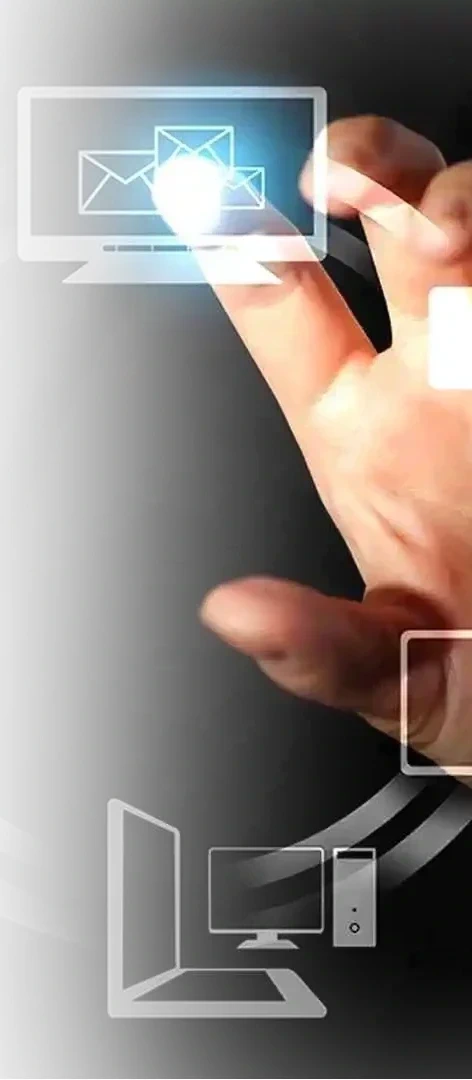
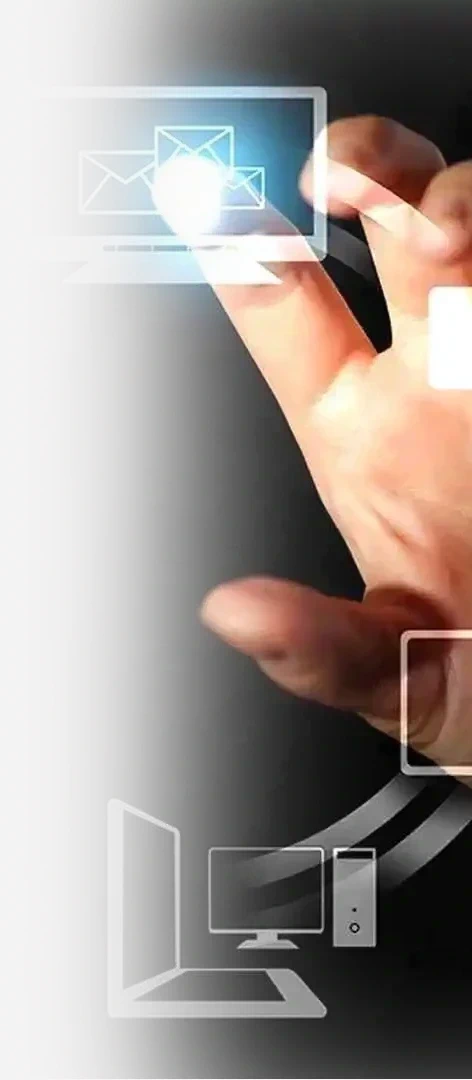
restyling

diff --git a/src/containers/Home/index.tsx b/src/containers/Home/index.tsx
@@ -11,6 +11,7 @@ import Box from "@mui/material/Box";
 import Tsparticle from "../../component/Tsparticle";
 import React from "react";
 import { ModeState } from "../../utils/GlobalState";
+import "./style.css"
 
 const Home = () => {
   const [customBreakpoint, setCustomBreakpoint] = React.useState<number | undefined>(undefined);
@@ -124,17 +125,25 @@ const Home = () => {
           </Box>
         </Box>
       </Box>
-      <Box sx={{ height: "102%", display: "flex", width: isMobile ? "95%" : "auto",justifyContent: "flex-end" }}>
-        <img
-          src= {backgroundImage}
-          style={{
-            height: "100%",
-            objectPosition:"right",
-            maskImage: isTablet ? "linear-gradient(to right, transparent 40% black 90%)" : "linear-gradient(to right, transparent 5%, black 50%)",
+        <Box
+          className="background-image"
+          sx={{
+            height: "102%",
+            display: "flex",
+            width: isMobile ? "70%" : "auto",
+            justifyContent: "flex-end",
           }}
-          alt="background image"
-        />
-    </Box>
+        >
+          <img
+            src={backgroundImage}
+            style={{
+              height: "100%",
+              objectPosition: "right",
+              maskImage: isTablet ? "linear-gradient(to right, transparent 40% black 90%)" : "linear-gradient(to right, transparent 5%, black 50%)",
+            }}
+            alt="background image"
+          />
+        </Box>
     </Box>
   );
 };

diff --git a/src/containers/Navbar/index.tsx b/src/containers/Navbar/index.tsx
@@ -19,7 +19,6 @@ import CssBaseline from "@mui/material/CssBaseline";
 import Box from "@mui/material/Box";
 import { ModeState } from "../../utils/GlobalState";
 import { DarkModeSwitch } from 'react-toggle-dark-mode';
-import "./style.css";
 
 interface Props {
   window?: () => Window;

diff --git a/src/containers/Home/style.css b/src/containers/Home/style.css
@@ -1,0 +1,10 @@
+.background-image::after {
+    content: '';
+    position: absolute;
+    top:  0;
+    right:  0;
+    bottom:  0;
+    left:  0;
+    background: linear-gradient(to right, transparent  40%, black  90%);
+    opacity:  0.5;
+}
